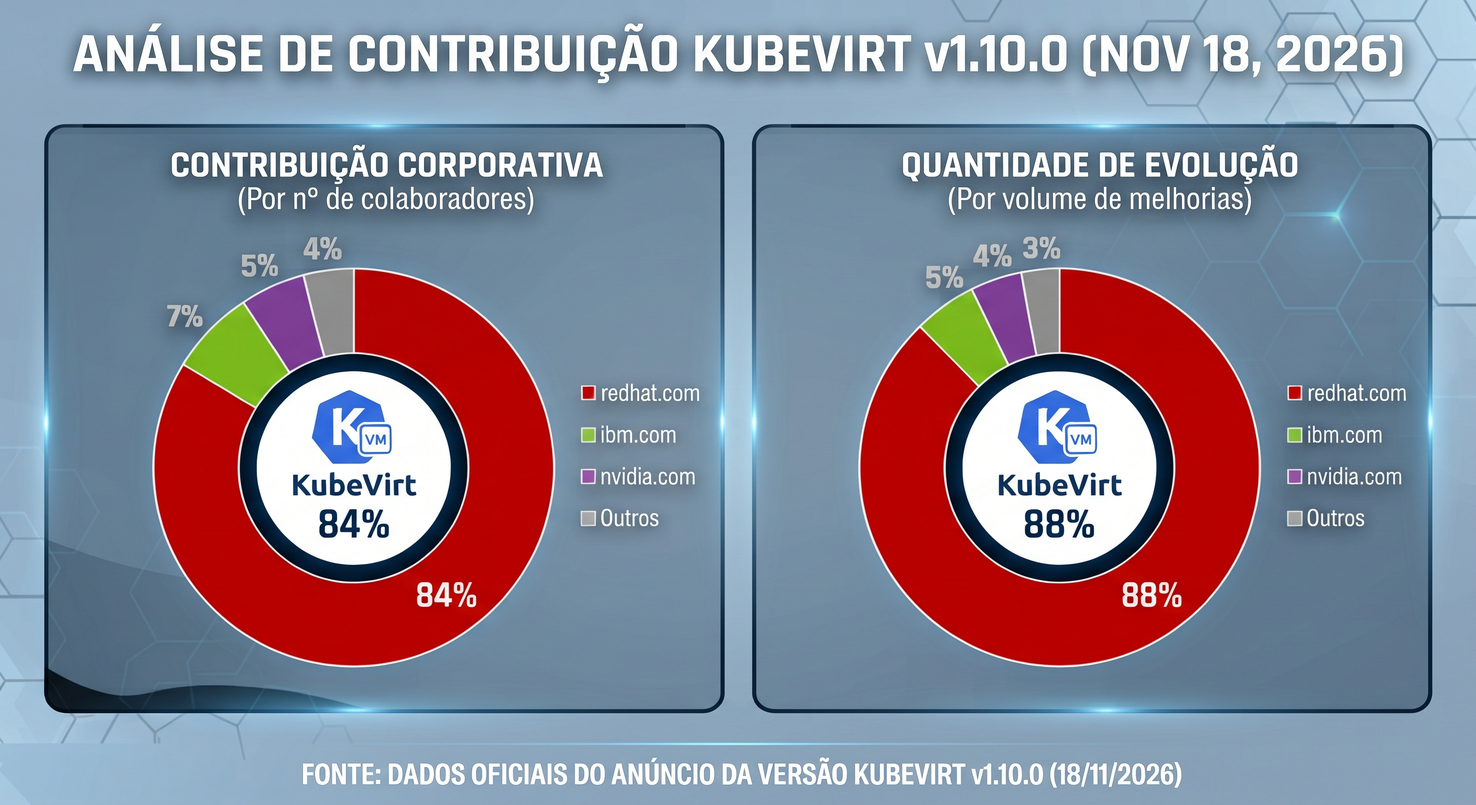
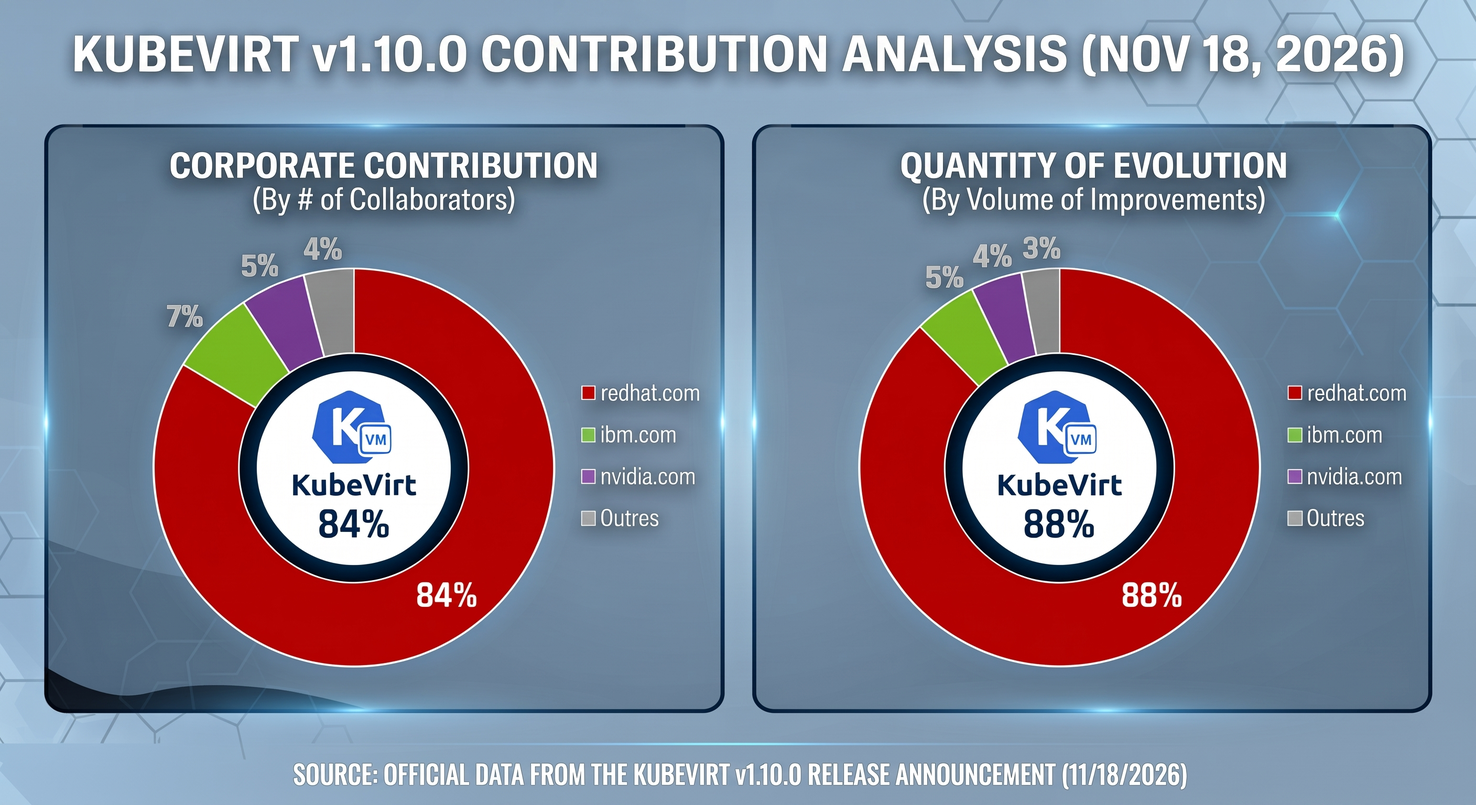
kubevirt 1.10

diff --git a/_posts/2026/2026-11-19-O-que-a-versao-1-10-0-do-kubevirt-representa-para-a-infraestrutura-moderna.md b/_posts/2026/2026-11-19-O-que-a-versao-1-10-0-do-kubevirt-representa-para-a-infraestrutura-moderna.md
@@ -1,5 +1,5 @@
 ---
-title: "Do Legado ao Cloud-Native: O que a Versão 1.10.0 do KubeVirt Representa para a Infraestrutura Moderna"
+title: "From Legacy to Cloud-Native: What KubeVirt Version 1.10.0 Represents for Modern Infrastructure"
 author: "Bruno Russo"
 date: 2026-11-19 06:55 -0300
 categories: ["Arquitetura", "Transformação Digital", "Governança", "k8s"]
@@ -12,82 +12,77 @@ image:
     alt: "Infográfico ilustrando a transição da virtualização tradicional para o ambiente Cloud-Native com o KubeVirt v1.10.0, destacando resiliência operacional, proteção de dados, performance e suporte a hardware avançado."
 ---
 
-# Do Legado ao Cloud-Native: O que a Versão 1.10.0 do KubeVirt Representa para a Infraestrutura Moderna
 
-O mercado de infraestrutura corporativa passa por uma de suas maiores transformações em décadas. Com a necessidade urgente de flexibilidade, otimização de custos e a busca irrestrita por alternativas aos modelos tradicionais de licenciamento de hipervisores, as empresas estão reavaliando como gerenciam seus parques tecnológicos. 
+The enterprise infrastructure market is undergoing one of its most significant transformations in decades. Driven by an urgent need for flexibility, cost optimization, and an unrestricted search for alternatives to traditional hypervisor licensing models, organizations are re-evaluating how they manage their technology estates.
 
-Nesse cenário, a virtualização tradicional e o ecossistema de containers deixaram de ser mundos paralelos. A grande virada de chave atual é a unificação: gerenciar máquinas virtuais (VMs) e microsserviços sob o mesmo guarda-chuva arquitetural. É exatamente aqui que o **KubeVirt** se consolida como a tecnologia definitiva para o futuro dos data centers.
+In this landscape, traditional virtualization and the container ecosystem are no longer parallel worlds. Today's major turning point is unification: managing virtual machines (VMs) and microservices under the same architectural umbrella. It is precisely here that **KubeVirt** establishes itself as the definitive technology for the future of data centers.
 
-
-> Não deixe de ler uma outra análise que fiz sobre o "[Calcanhar de Aquiles do KubeVirt](https://brunorusso.com.br/posts/The-Achilles-Heel-of-KubeVirt/)"
-
+> Be sure to read another analysis I wrote about "[The Achilles Heel of KubeVirt](https://brunorusso.com.br/posts/The-Achilles-Heel-of-KubeVirt/)"
 
 ---
 
-## O que é o KubeVirt?
+## What is KubeVirt?
 
-Para quem ainda enxerga o Kubernetes apenas como um orquestrador de containers, o KubeVirt redefine essa fronteira. Ele estende o Kubernetes adicionando recursos de hipervisor (via KVM/QEMU) diretamente aos clusters, permitindo que **máquinas virtuais rodem lado a lado com os containers**, tratadas nativamente como objetos da plataforma (Pods).
+For those who still view Kubernetes merely as a container orchestrator, KubeVirt redefines that boundary. It extends Kubernetes by adding hypervisor capabilities (via KVM/QEMU) directly to clusters, allowing **virtual machines to run side-by-side with containers**, natively treated as platform objects (Pods).
 
-Na prática, isso significa que a sua VM ganha superpoderes: ela herda o ecossistema de segurança (RBAC), monitoramento integrado, automação declarativa e redes avançadas do Kubernetes, unificando a gestão de workloads legados e modernos em uma única plataforma.
+In practice, this means your VM gains superpowers: it inherits Kubernetes' security ecosystem (RBAC), integrated monitoring, declarative automation, and advanced networking, unifying the management of legacy and modern workloads onto a single platform.
 
-Além disso, um ponto decisivo para a governança corporativa é que o KubeVirt é um **projeto graduado na CNCF (Cloud Native Computing Foundation)** — o estágio mais alto de maturidade e estabilidade dentro da fundação, o mesmo status do próprio Kubernetes. Para gestores e arquitetos, essa chancela traz garantias fundamentais:
+Furthermore, a decisive factor for corporate governance is that KubeVirt is a **CNCF (Cloud Native Computing Foundation) graduated project**—the highest stage of maturity and stability within the foundation, holding the exact same status as Kubernetes itself. For managers and architects, this endorsement provides fundamental guarantees:
 
-* **Neutralidade e Governança Aberta:** O projeto pertence a uma fundação neutra e não a um único fabricante, eliminando riscos de mudanças abusivas de licenciamento (*lock-in* comercial).
-* **Maturidade Comprovada:** O status de "graduado" exige um ecossistema robusto, auditorias rigorosas de segurança e ampla adoção em ambientes corporativos de produção global.
-* **Segurança de Longo Prazo:** Assegura que o investimento na plataforma é perene, contando com uma comunidade vibrante e suporte contínuo de gigantes da tecnologia.
-
----
-
-## O Cenário Atual do Mercado de Virtualização
-
-O mercado atual é guiado por três pilares inegociáveis para a média e alta gestão:
-
-1. **Fuga do Lock-in:** Organizações buscam quebrar a dependência de fornecedores consolidados de hipervisores que encareceram seus modelos de licenciamento.
-2. **Convergência Operacional:** Manter silos separados (uma equipe para VMs e outra para Kubernetes) gera custos operacionais altos e lentidão na entrega.
-3. **Plataforma de Inovação:** A infraestrutura precisa servir de base para iniciativas futuras (como IA e arquiteturas híbridas), sem abandonar o legado que sustenta as operações atuais.
-
-É nesse contexto maduro que a comunidade open source entrega marcos tecnológicos cruciais.
+* **Neutrality and Open Governance:** The project belongs to a neutral foundation rather than a single vendor, eliminating the risks of abusive licensing changes (vendor *lock-in*).
+* **Proven Maturity:** "Graduated" status requires a robust ecosystem, rigorous security audits, and widespread adoption in global enterprise production environments.
+* **Long-Term Security:** Ensures that the investment in the platform is enduring, backed by a vibrant community and continuous support from technology giants.
 
 ---
 
-## KubeVirt v1.10.0: Os Grandes Avanços para o Mundo Corporativo
+## The Current Virtualization Market Landscape
 
-Lançado oficialmente em **18 de novembro de 2026**, o **KubeVirt v1.10.0** marca um ponto de inflexão na maturidade da ferramenta, trazendo melhorias profundas de resiliência, segurança e eficiência operacional focadas em ambientes corporativos de altíssima exigência. 
+Today's market is guided by three non-negotiable pillars for middle and senior management:
 
-Abaixo, destaco os avanços mais impactantes desta versão para quem desenha arquiteturas corporativas:
+1. **Escaping Lock-in:** Organizations are seeking to break free from established hypervisor vendors that have significantly increased the cost of their licensing models.
+2. **Operational Convergence:** Maintaining separate silos (one team for VMs and another for Kubernetes) generates high operational overhead and slows down delivery.
+3. **Innovation Platform:** Infrastructure must serve as a foundation for future initiatives (such as AI and hybrid architectures) without abandoning the legacy systems that sustain current operations.
 
-### 1. Resiliência Operacional e Migrações Mais Seguras
-Atualizações de infraestrutura em ambientes produtivos costumam ser o calcanhar de Aquiles de qualquer operação. Na v1.10.0, a engenharia de migração ao vivo (*live migration*) recebeu melhorias estruturais críticas para evitar que migrações fiquem travadas durante *rolling upgrades* entre nós com versões mistas de componentes (`virt-handler`). Para gestores de TI, isso se traduz em janelas de manutenção mais previsíveis e menor risco de indisponibilidade em atualizações de rotina do cluster.
-
-### 2. Evolução no Ciclo de Vida e Proteção de Dados (Backup)
-A proteção e o gerenciamento de dados sofreram saltos importantes. A versão promove recursos vitais para o ecossistema de backup corporativo:
-* O suporte a **backups incrementais offline** e a maturação para o estágio **Beta** de recursos de *Incremental Backup* otimizam drasticamente o RPO (*Recovery Point Objective*) de grandes volumes de dados.
-* A forma como despejos de memória (*memory dumps*) e snapshots são tratados foi refinada, desacoplando o consumo excessivo de PVCs de utilidade e garantindo recuperações muito mais limpas e rápidas após falhas inesperadas no `virt-launcher`.
-
-### 3. Otimização de Performance e Redução de Overhead
-Em ambientes corporativos de grande escala, cada megabyte de memória conta. A v1.10.0 reescreveu componentes internos — como a reescrita do `virt-launcher-monitor` em C — reduzindo o consumo de memória (*footprint*) da infraestrutura de suporte para cerca de 2Mi por instância. Menos recursos consumidos pelo plano de controle significam mais densidade de VMs úteis por nó e, consequentemente, melhor aproveitamento do parque de hardware (*TCO otimizado*).
-
-### 4. Expansão de Hardware e Arquiteturas Avançadas (DRA e ARM64)
-A busca por eficiência passa pelo uso de hardware especializado. O framework **Dynamic Resource Allocation (DRA)** avançou significativamente para a fase Beta, melhorando a forma como dispositivos de hardware complexos (como GPUs e aceleradores via SR-IOV) são alocados e monitorados em instâncias virtuais. Além disso, o suporte a arquiteturas alternativas, como recursos de segurança avançados (UEFI Secure Boot) em ambientes ARM64, abre caminho para estratégias de infraestrutura altamente heterogêneas e modernas.
+It is within this mature context that the open-source community is delivering crucial technological milestones.
 
 ---
 
-## Quem Sustenta e Evolui o KubeVirt? (O Ecossistema por Trás do Código)
+## KubeVirt v1.10.0: Major Breakthroughs for the Enterprise World
 
-Uma dúvida legítima da média e alta gestão ao avaliar tecnologias open source é: quem garante a continuidade, a correção rápida de vulnerabilidades e a evolução do produto?
+Officially released on **November 18, 2026**, **KubeVirt v1.10.0** marks a turning point in the tool's maturity, introducing deep improvements in resilience, security, and operational efficiency tailored for highly demanding enterprise environments.
 
-Os números do lançamento da v1.10.0 respondem a essa questão com clareza. Longe de ser um projeto mantido apenas por esforços voluntários esporádicos, o KubeVirt é impulsionado por engenharia corporativa de ponta. A análise das contribuições desta versão revela um ecossistema altamente comprometido, onde gigantes da tecnologia lideram tanto o volume de especialistas dedicados quanto a entrega efetiva de melhorias no código-fonte.
+Below, I highlight the most impactful advancements in this release for those designing enterprise architectures:
 
-Esse respaldo industrial garante que o roteiro de evolução (roadmap) da plataforma esteja diretamente alinhado às demandas reais de segurança, performance e estabilidade dos grandes data centers.
+### 1. Operational Resilience and Safer Migrations
+Infrastructure upgrades in production environments are often the Achilles' heel of any operation. In v1.10.0, the live migration engine received critical structural improvements to prevent migrations from stalling during *rolling upgrades* across nodes running mixed component versions (`virt-handler`). For IT managers, this translates into more predictable maintenance windows and a lower risk of downtime during routine cluster updates.
 
-![Infográfico comparativo da versão KubeVirt v1.10.0 (lançada em 18 de novembro de 2026) com dois gráficos de rosca lado a lado sobre a análise de contribuição. O primeiro gráfico exibe a 'Contribuição Corporativa' por número de colaboradores: redhat.com com 84%, ibm.com com 7%, nvidia.com com 5% e outros com 4%. O segundo gráfico exibe a 'Quantidade de Evolução' por volume de melhorias: redhat.com com 88%, ibm.com com 5%, nvidia.com com 4% e outros com 3%.](https://www.brunorusso.com.br/assets/2026/contribuicao-kubevirt-1-10.jpeg)
+### 2. Lifecycle Evolution and Data Protection (Backup)
+Data protection and management have taken major leaps forward. This release promotes vital capabilities for the enterprise backup ecosystem:
+* Support for **offline incremental backups** and the graduation to **Beta** of *Incremental Backup* features drastically optimize the RPO (*Recovery Point Objective*) for large data volumes.
+* The handling of memory dumps and snapshots has been refined, decoupling the excessive consumption of utility PVCs and ensuring much cleaner, faster recoveries following unexpected `virt-launcher` failures.
 
+### 3. Performance Optimization and Overhead Reduction
+In large-scale enterprise environments, every megabyte of memory counts. Version 1.10.0 rewrote internal components—such as rewriting `virt-launcher-monitor` in C—reducing the memory footprint of the supporting infrastructure to roughly 2Mi per instance. Fewer resources consumed by the control plane mean higher usable VM density per node and, consequently, better hardware utilization (*optimized TCO*).
+
+### 4. Hardware Expansion and Advanced Architectures (DRA and ARM64)
+The pursuit of efficiency relies on leveraging specialized hardware. The **Dynamic Resource Allocation (DRA)** framework advanced significantly into Beta, improving how complex hardware devices (such as GPUs and SR-IOV accelerators) are allocated and monitored within virtual instances. Additionally, support for alternative architectures, such as advanced security features (UEFI Secure Boot) in ARM64 environments, paves the way for highly heterogeneous and modern infrastructure strategies.
 
 ---
 
+## Who Sustains and Evolves KubeVirt? (The Ecosystem Behind the Code)
 
-## Conclusão
+A legitimate question from middle and senior management when evaluating open-source technologies is: *who ensures continuity, rapid vulnerability patching, and product evolution?*
 
-O KubeVirt deixou de ser uma promessa tecnológica para se tornar uma realidade madura e validada em grandes corporações. Com o lançamento da **v1.10.0**, a plataforma demonstra que está pronta para absorver os workloads mais exigentes do mercado, unificando a estabilidade que o mundo corporativo espera com a agilidade que o desenvolvimento moderno exige.
+The numbers from the v1.10.0 release answer this question clearly. Far from being a project maintained solely by sporadic volunteer efforts, KubeVirt is driven by cutting-edge corporate engineering. An analysis of the contributions in this release reveals a deeply committed ecosystem, where technology giants lead both in the volume of dedicated specialists and in the actual delivery of source code enhancements.
 
-Para arquitetos e gestores de TI, o momento de planejar a estratégia de transição e modernização do parque de virtualização usando o ecossistema Kubernetes nunca foi tão propício.
+This industrial backing ensures that the platform's roadmap remains directly aligned with the real-world security, performance, and stability demands of large data centers.
+
+![Comparative infographic of KubeVirt v1.10.0 (released November 18, 2026) featuring two side-by-side donut charts analyzing contributions. The first chart displays 'Corporate Contribution' by number of contributors: redhat.com at 84%, ibm.com at 7%, nvidia.com at 5%, and others at 4%. The second chart displays 'Evolution Volume' by number of improvements: redhat.com at 88%, ibm.com at 5%, nvidia.com at 4%, and others at 3%.](https://www.brunorusso.com.br/assets/2026/contribuicao-kubevirt-1-10.jpeg)
+
+---
+
+## Conclusion
+
+KubeVirt has moved past being a technological promise to become a mature reality validated across major enterprises. With the release of **v1.10.0**, the platform demonstrates that it is ready to absorb the market's most demanding workloads, unifying the stability the corporate world expects with the agility modern development demands.
+
+For IT architects and managers, there has never been a better time to plan the transition and modernization strategy for your virtualization estate using the Kubernetes ecosystem.
